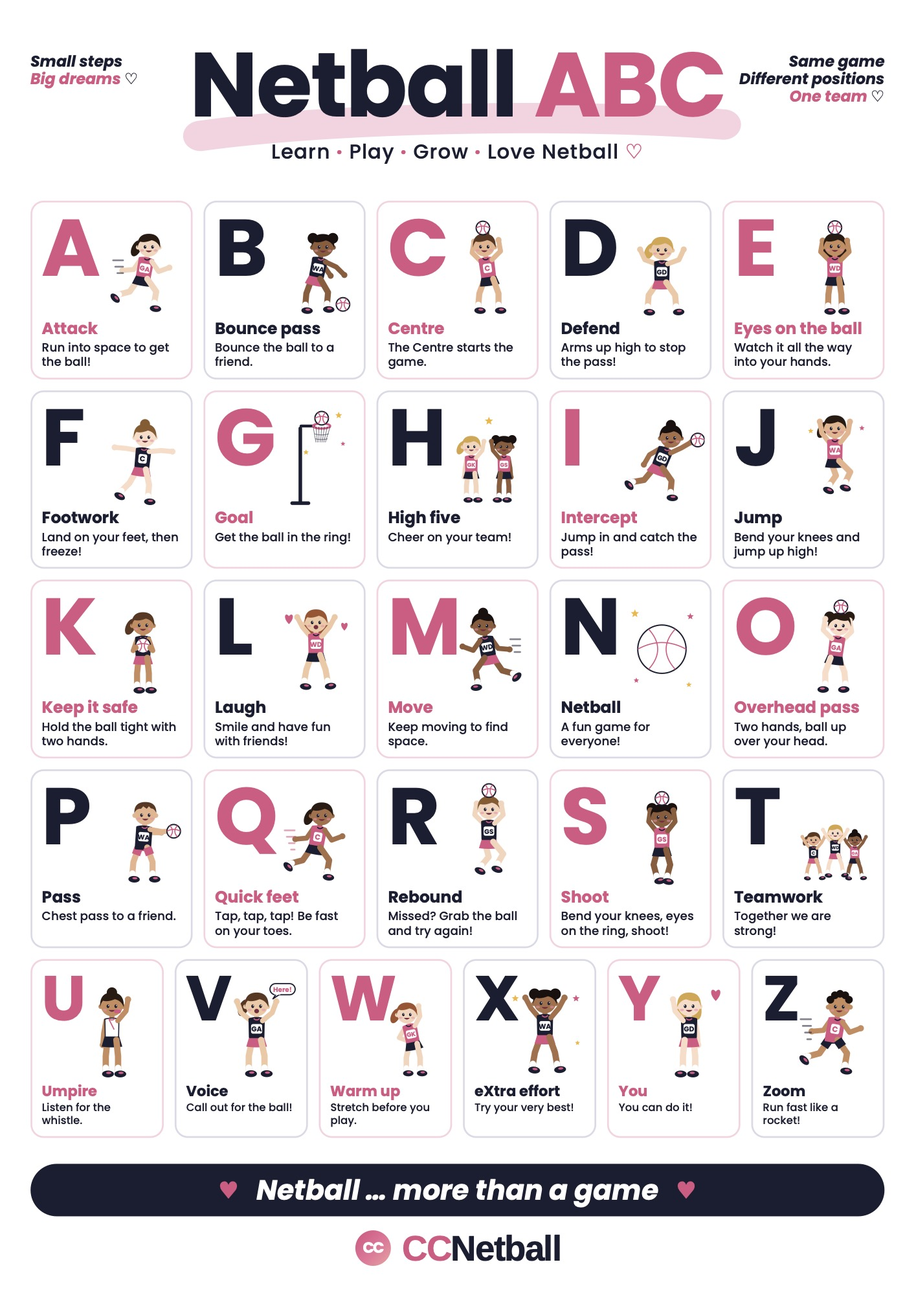
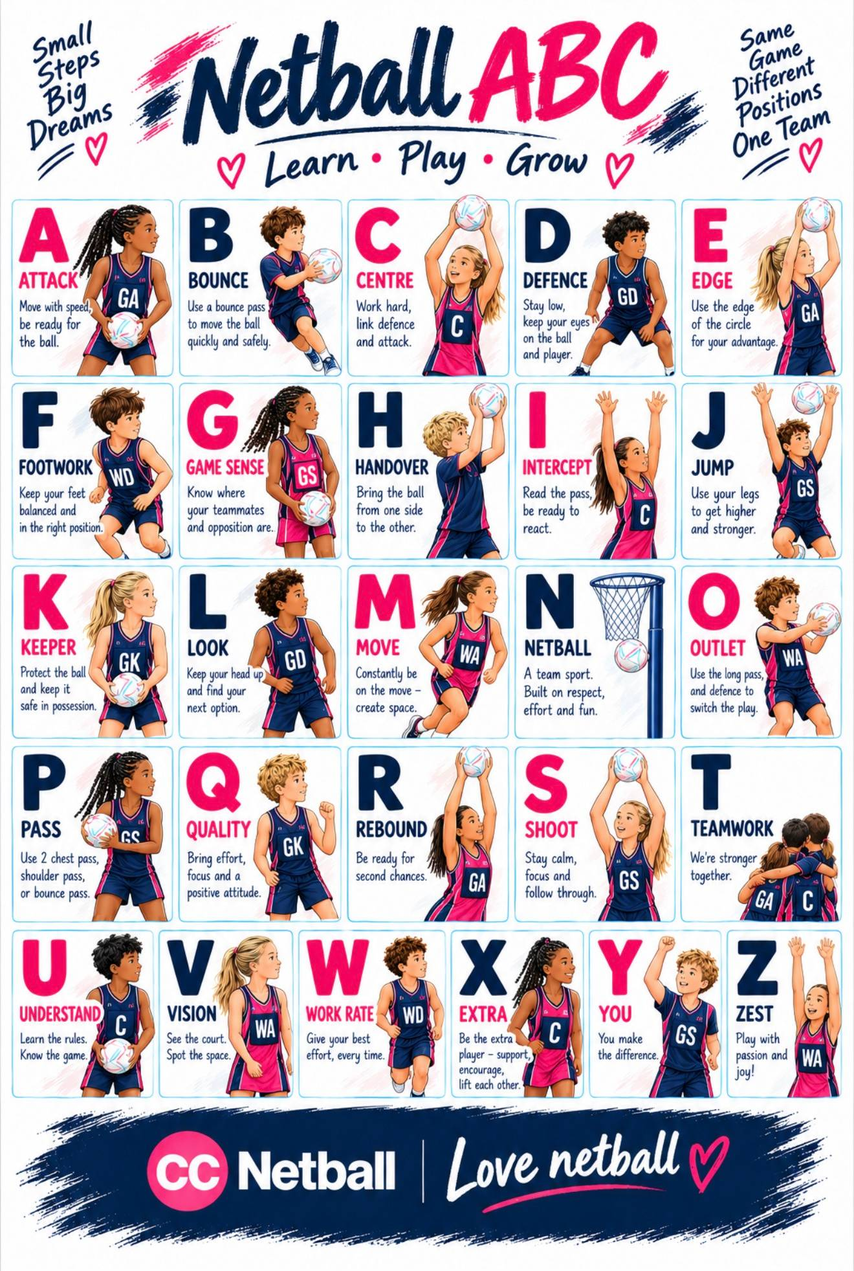
Replace ABC wall chart artwork with real framed photos
- Swaps the auto-converted PDF for the correct Netball ABC artwork
  Rich sent plus three professionally framed mockups (white, black,
  oak).
- Drops the CSS WallChartMockup frame picker now that we have real
  photos — the standard gallery handles the three frame previews.
- Moves isGreetingCardProduct and isWallChartProduct into
  shop-physical.ts so both the detail and grid pull them from one
  place.

diff --git a/src/components/physical-product-detail.tsx b/src/components/physical-product-detail.tsx
@@ -4,14 +4,12 @@ import { useState } from "react";
 import { ArrowLeft, Minus, Plus, ShoppingBag, Sparkles } from "lucide-react";
 import Link from "next/link";
 import { useCart } from "./cart/cart-context";
-import {
-  GreetingCardMockup,
-  isGreetingCardProduct,
-} from "./greeting-card-mockup";
-import { WallChartMockup, isWallChartProduct } from "./wall-chart-mockup";
+import { GreetingCardMockup } from "./greeting-card-mockup";
 import {
   type PhysicalProduct,
   formatPriceCents,
+  isGreetingCardProduct,
+  isWallChartProduct,
   stockMessage,
 } from "@/lib/shop-physical";
 
@@ -65,7 +63,12 @@ export function PhysicalProductDetail({ product }: { product: PhysicalProduct })
                 isCard ? (
                   <GreetingCardMockup src={photo} alt={product.name} />
                 ) : isWallChart ? (
-                  <WallChartMockup src={photo} alt={product.name} />
+                  // eslint-disable-next-line @next/next/no-img-element
+                  <img
+                    src={photo}
+                    alt={product.name}
+                    className="h-full w-full object-contain"
+                  />
                 ) : (
                   // eslint-disable-next-line @next/next/no-img-element
                   <img

diff --git a/src/components/physical-products-grid.tsx b/src/components/physical-products-grid.tsx
@@ -1,14 +1,12 @@
 import Link from "next/link";
 import { ShoppingBag, Sparkles } from "lucide-react";
 import { Reveal } from "@/components/motion";
-import {
-  GreetingCardMockup,
-  isGreetingCardProduct,
-} from "@/components/greeting-card-mockup";
-import { isWallChartProduct } from "@/components/wall-chart-mockup";
+import { GreetingCardMockup } from "@/components/greeting-card-mockup";
 import {
   type PhysicalProduct,
   formatPriceCents,
+  isGreetingCardProduct,
+  isWallChartProduct,
   stockMessage,
 } from "@/lib/shop-physical";
 

diff --git a/src/lib/shop-physical.ts b/src/lib/shop-physical.ts
@@ -49,6 +49,14 @@ export function formatPriceCents(cents: number): string {
   return `$${dollars.toFixed(2)}`;
 }
 
+export function isWallChartProduct(slug: string): boolean {
+  return /-wall-chart$/.test(slug);
+}
+
+export function isGreetingCardProduct(slug: string): boolean {
+  return /-cards-pk\d+$/.test(slug);
+}
+
 export function stockMessage(stock: number): {
   message: string | null;
   tone: "available" | "low" | "sold-out";

diff --git a/src/components/greeting-card-mockup.tsx b/src/components/greeting-card-mockup.tsx
@@ -69,6 +69,4 @@ export function GreetingCardMockup({
   );
 }
 
-export function isGreetingCardProduct(slug: string): boolean {
-  return /-cards-pk\d+$/.test(slug);
-}
+export { isGreetingCardProduct } from "@/lib/shop-physical";
